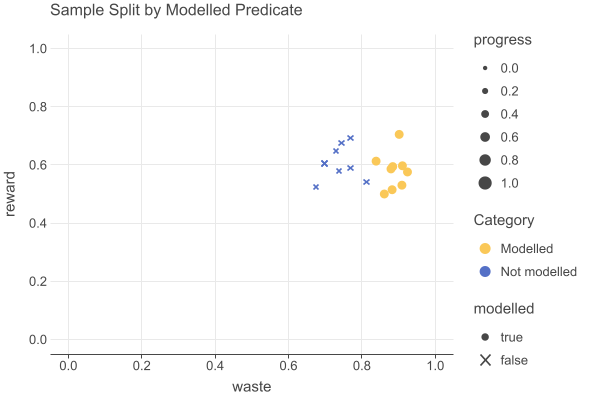
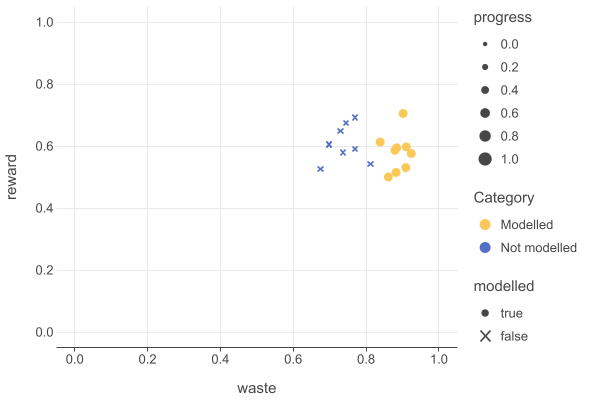
Refactor plotting to PlottingTools.kt

diff --git a/src/main/kotlin/predcompiler/compilation/experiments/PlottingTools.kt b/src/main/kotlin/predcompiler/compilation/experiments/PlottingTools.kt
@@ -1,0 +1,64 @@
+package predcompiler.compilation.experiments
+
+import org.jetbrains.kotlinx.dataframe.DataColumn
+import org.jetbrains.kotlinx.dataframe.DataFrame
+import org.jetbrains.kotlinx.dataframe.api.*
+import org.jetbrains.kotlinx.dataframe.type
+import org.jetbrains.kotlinx.kandy.dsl.plot
+import org.jetbrains.kotlinx.kandy.dsl.continuous
+import org.jetbrains.kotlinx.kandy.dsl.categorical
+import org.jetbrains.kotlinx.kandy.util.color.Color
+import org.jetbrains.kotlinx.kandy.letsplot.export.save
+import org.jetbrains.kotlinx.kandy.letsplot.layers.points
+import org.jetbrains.kotlinx.kandy.letsplot.scales.guide.LegendType
+import org.jetbrains.kotlinx.kandy.letsplot.settings.Symbol
+
+fun plotSamples(
+    df: DataFrame<*>,
+    category: DataColumn<Boolean>,
+    trueText: String,
+    falseText: String,
+    plotTitle: String
+) {
+    // check that dataframe contains the necessary columns
+    assert(df.containsColumn("waste") && df.containsColumn("reward") && df.containsColumn("progress")
+    ) { "The dataframe must contain the columns 'waste', 'reward', and 'progress'." }
+    // check that dataframe has as many rows as the categories column
+    assert(df.rowsCount() == category.size()
+    ) { "The dataframe must have the same number of rows as the categories column." }
+    // check that the waste, reward and progress columns are numeric
+    assert(
+        df["waste"].type.classifier == Double::class &&
+                df["reward"].type.classifier == Double::class &&
+                df["progress"].type.classifier == Double::class
+    ) { "The 'waste', 'reward', and 'progress' columns must be numeric." }
+
+    val modelled by columnOf(*Array(df.rowsCount()) { (df[it]["progress"] as Double) >= 1.0 })
+
+    val newCat = category.rename("category")
+    df
+        .add(newCat)
+        .add(modelled)
+        .plot {
+            points {
+                x("waste") { scale = continuous(0.0..1.0) }
+                y("reward") { scale = continuous(0.0..1.0) }
+                size("progress") { scale = continuous(2.0..6.0) }
+                color("category") {
+                    scale = categorical(
+                        true to Color.YELLOW, false to Color.BLUE
+                    )
+                    legend.type = LegendType.DiscreteLegend()
+                    legend.name = "Category"
+                    legend.breaksLabeled(true to trueText, false to falseText)
+                }
+                symbol("modelled") {
+                    scale = categorical(
+                        true to Symbol.BULLET,
+                        false to Symbol.CROSS
+                    )
+                }
+            }
+        }
+        .save("${plotTitle}.png")
+} // plotSamples
